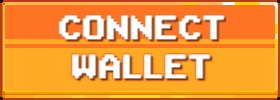
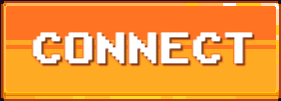
Updated bot to work in V35
* Fixed login
* Overall improvements to bot performance
* Added ingame hero page selection
* Added configuration to limit how many heros to put to work at each verification time
* Removed reCaptcha stuff

diff --git a/index.py b/index.py
@@ -66,20 +66,22 @@ def addRandomness(n, randomn_factor_size=None):
         int: n with randomness
     """
 
-    if randomn_factor_size is None:
-        randomness_percentage = 0.1
-        randomn_factor_size = randomness_percentage * n
+    return int(n)
 
-    random_factor = 2 * random() * randomn_factor_size
-    if random_factor > 5:
-        random_factor = 5
-    without_average_random_factor = n - randomn_factor_size
-    randomized_n = int(without_average_random_factor + random_factor)
-    # logger('{} with randomness -> {}'.format(int(n), randomized_n))
-    return int(randomized_n)
+    # if randomn_factor_size is None:
+    #     randomness_percentage = 0.1
+    #     randomn_factor_size = randomness_percentage * n
+
+    # random_factor = 2 * random() * randomn_factor_size
+    # if random_factor > 5:
+    #     random_factor = 5
+    # without_average_random_factor = n - randomn_factor_size
+    # randomized_n = int(without_average_random_factor + random_factor)
+    # # logger('{} with randomness -> {}'.format(int(n), randomized_n))
+    # return int(randomized_n)
 
 def moveToWithRandomness(x,y,t):
-    pyautogui.moveTo(addRandomness(x,10),addRandomness(y,10),t+random()/2)
+    pyautogui.moveTo(addRandomness(x,10),addRandomness(y,10))
 
 
 def remove_suffix(input_string, suffix):
@@ -220,9 +222,14 @@ def clickButtons():
         global hero_clicks
         hero_clicks = hero_clicks + 1
         #cv2.rectangle(sct_img, (x, y) , (x + w, y + h), (0,255,255),2)
+        if int(c['limit_heros_at_time']) > 0 and hero_clicks == int(c['limit_heros_at_time']):
+            logger('Sent all heros to work')
+            return -1
+
         if hero_clicks > 20:
             logger('too many hero clicks, try to increase the go_to_work_btn threshold')
-            return
+            return -1
+
     return len(buttons)
 
 def isHome(hero, buttons):
@@ -255,7 +262,6 @@ def clickGreenBarButtons():
     buttons = positions(images['go-work'], threshold=ct['go_to_work_btn'])
     logger('🆗 %d buttons detected' % len(buttons))
 
-
     not_working_green_bars = []
     for bar in green_bars:
         if not isWorking(bar, buttons):
@@ -264,18 +270,20 @@ def clickGreenBarButtons():
         logger('🆗 %d buttons with green bar detected' % len(not_working_green_bars))
         logger('👆 Clicking in %d heroes' % len(not_working_green_bars))
 
-    # se tiver botao com y maior que bar y-10 e menor que y+10
-    hero_clicks_cnt = 0
     for (x, y, w, h) in not_working_green_bars:
         # isWorking(y, buttons)
         moveToWithRandomness(x+offset+(w/2),y+(h/2),1)
         pyautogui.click()
         global hero_clicks
         hero_clicks = hero_clicks + 1
-        hero_clicks_cnt = hero_clicks_cnt + 1
-        if hero_clicks_cnt > 20:
+
+        if int(c['limit_heros_at_time']) > 0 and hero_clicks == int(c['limit_heros_at_time']):
+            logger('⚒ Sent all heros to work')
+            return -1
+
+        if hero_clicks > 20:
             logger('⚠ Too many hero clicks, try to increase the go_to_work_btn threshold')
-            return
+            return -1
         #cv2.rectangle(sct_img, (x, y) , (x + w, y + h), (0,255,255),2)
     return len(not_working_green_bars)
 
@@ -298,6 +306,14 @@ def clickFullBarButtons():
         global hero_clicks
         hero_clicks = hero_clicks + 1
 
+        if int(c['limit_heros_at_time']) > 0 and hero_clicks == int(c['limit_heros_at_time']):
+            logger('⚒ Sent all heros to work')
+            return -1
+
+        if hero_clicks > 20:
+            logger('⚠ Too many hero clicks, try to increase the go_to_work_btn threshold')
+            return -1
+
     return len(not_working_full_bars)
 
 def goToHeroes():
@@ -310,12 +326,25 @@ def goToHeroes():
     clickBtn(images['hero-icon'])
     time.sleep(randint(1,3))
 
+def goToHeroesInGame():
+    if clickBtn(images['arrow-ingame-menu-expand']):
+        global login_attempts
+        login_attempts = 0
+
+    #TODO tirar o sleep quando colocar o pulling
+    time.sleep(1)
+    result = clickBtn(images['hero-icon-ingame'])
+    time.sleep(randint(1,3))
+    
+    return result
+
 def goToGame():
     # in case of server overload popup
     clickBtn(images['x'])
     # time.sleep(3)
     clickBtn(images['x'])
 
+    clickBtn(images['arrow-ingame-menu-collapse'])
     clickBtn(images['treasure-hunt-icon'])
 
 def refreshHeroesPositions():
@@ -338,6 +367,12 @@ def login():
         return
 
     if clickBtn(images['connect-wallet'], timeout = 10):
+        logger('🎉 Connect wallet button detected, logging in!')
+        login_attempts = login_attempts + 1
+        #TODO mto ele da erro e poco o botao n abre
+        # time.sleep(10)
+
+    if clickBtn(images['connect-wallet-2'], timeout = 10):
         logger('🎉 Connect wallet button detected, logging in!')
         login_attempts = login_attempts + 1
         #TODO mto ele da erro e poco o botao n abre
@@ -422,7 +457,11 @@ def sendHeroesHome():
 def refreshHeroes():
     logger('🏢 Search for heroes to work')
 
-    goToHeroes()
+    global hero_clicks
+    hero_clicks = 0
+
+    if goToHeroesInGame() == False:
+        goToHeroes()
 
     if c['select_heroes_mode'] == "full":
         logger('⚒ Sending heroes with full stamina bar to work', 'green')
@@ -434,7 +473,7 @@ def refreshHeroes():
     buttonsClicked = 1
     empty_scrolls_attempts = c['scroll_attemps']
 
-    while(empty_scrolls_attempts >0):
+    while(empty_scrolls_attempts > 0):
         if c['select_heroes_mode'] == 'full':
             buttonsClicked = clickFullBarButtons()
         elif c['select_heroes_mode'] == 'green':
@@ -446,8 +485,13 @@ def refreshHeroes():
 
         if buttonsClicked == 0:
             empty_scrolls_attempts = empty_scrolls_attempts - 1
-        scroll()
-        time.sleep(2)
+        elif buttonsClicked < 0:
+            empty_scrolls_attempts = 0
+        
+        if empty_scrolls_attempts > 0:
+            scroll()
+            time.sleep(1)
+            
     logger('💪 {} heroes sent to work'.format(hero_clicks))
     goToGame()
 
@@ -480,16 +524,12 @@ def main():
     "login" : 0,
     "heroes" : 0,
     "new_map" : 0,
-    "check_for_captcha" : 0,
     "refresh_heroes" : 0
     }
     # =========
 
     while True:
         now = time.time()
-
-        if now - last["check_for_captcha"] > addRandomness(t['check_for_captcha'] * 60):
-            last["check_for_captcha"] = now
 
         if now - last["heroes"] > addRandomness(t['send_heroes_for_work'] * 60):
             last["heroes"] = now
